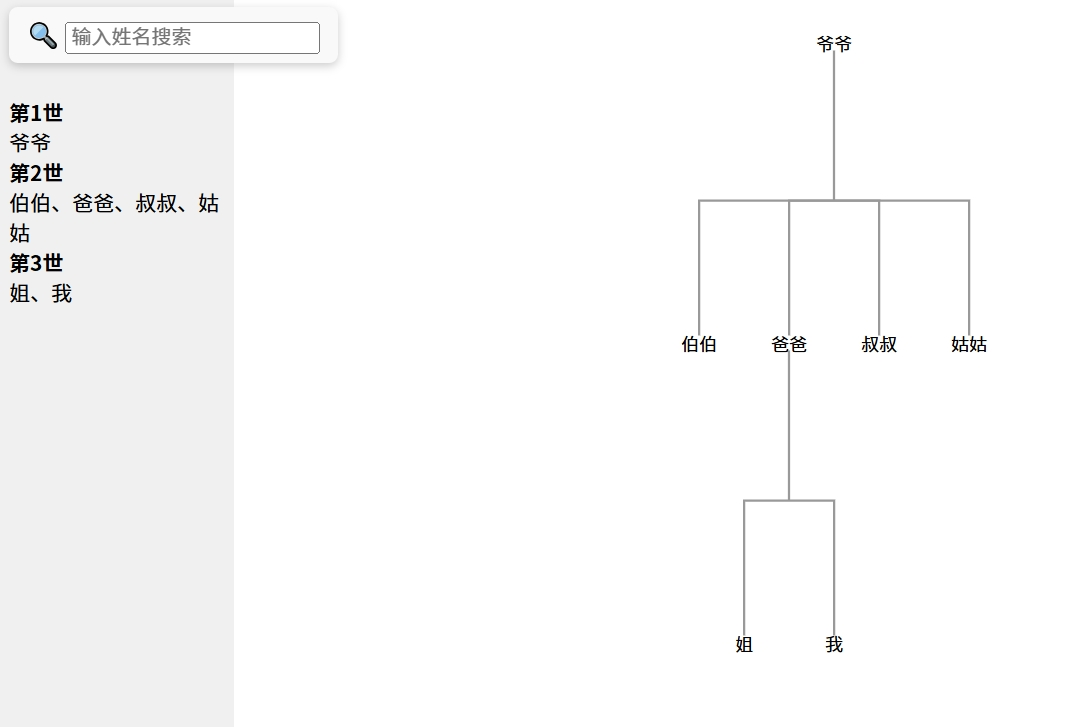
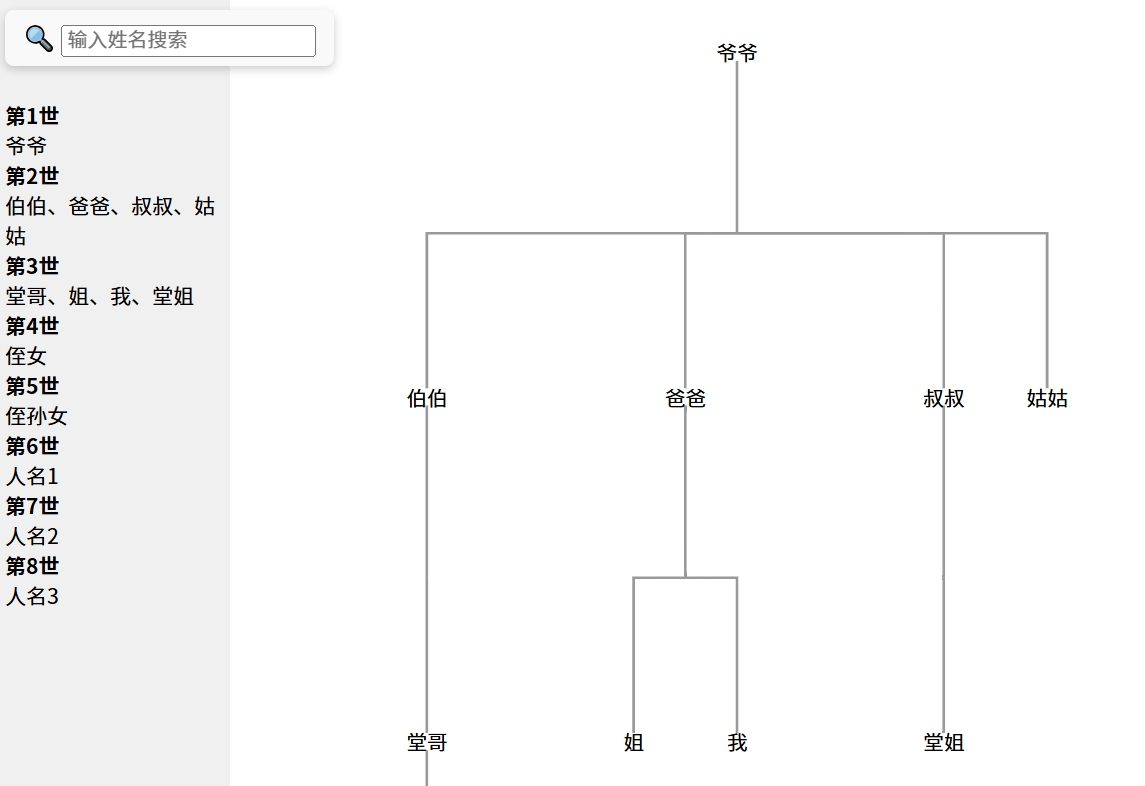
more examples

diff --git a/data.js b/data.js
@@ -1,10 +1,20 @@
 const raw_inputs = `
+曾祖父， 爷爷， 父子，
+曾祖父， 二爷爷， 父子，
+曾祖父， 三爷爷， 父子，
 爷爷, 伯伯, 父子,
 爷爷, 爸爸, 父子,
 爷爷, 叔叔, 父子,
 爷爷, 姑姑, 父女,
-爸爸, 姐, 父女
+爸爸, 姐, 父女，
 爸爸， 我, 父子,
+伯伯， 堂哥， 父子
+叔叔， 堂姐， 父女
+堂哥， 侄女， 父女
+侄女， 侄孙女， 母女
+侄孙女， 人名1， 母子
+人名1， 人名2， 父子
+人名2， 人名3， 父子
 `;
 
 const raw_info = `

diff --git a/README.md b/README.md
@@ -12,5 +12,5 @@ Family Tree
 
 修改data.js里的内容， 
 
-1. 2-7行是人物关系示例， 主要写这里， 暂未能实现配偶的绘制
-2. 11-12行是人物补充内容， 鼠标悬停时显示
+1. 2-17行是人物关系示例， 主要写这里， 暂未能实现配偶的绘制
+2. 21-22行是人物补充内容， 鼠标悬停时显示
